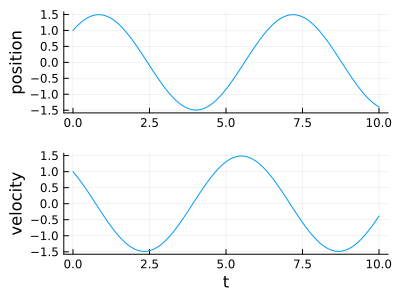
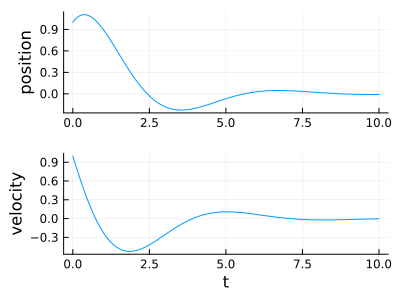
Correction in mass-spring-damper example

diff --git a/docs/Modelling/example_mass_spring_damper.md b/docs/Modelling/example_mass_spring_damper.md
@@ -83,9 +83,9 @@ From the first line, \(a=\frac{1}{2}\). Injecting it in the second line gives \(
 $$
 \begin{align}
 x(t)&=e^{-0.1t}\left((a+ib)(\cos(0.99t)+i\sin(0.99t))v_1 + (a-ib)(\cos(0.99t)-i\sin(0.99t))v_1\right)\\
-&= (v_1+v_2)\left( a\cos(0.99t)-b\sin(0.99t) \right) + i(v_1-v_2)\left(a\sin(0.99t)+b\cos(0.99t)\right)\\
-&= \begin{pmatrix}2\\-0.2\end{pmatrix}\left( a\cos(0.99t)-b\sin(0.99t) \right) + i\begin{pmatrix}0\\1.98i\end{pmatrix}\left(a\sin(0.99t)+b\cos(0.99t)\right)\\
-&= \begin{pmatrix}2\\-0.2\end{pmatrix}\left( 0.5\cos(0.99t)+0.555\sin(0.99t) \right) - \begin{pmatrix}0\\1.98\end{pmatrix}\left(0.5\sin(0.99t)-0.555\cos(0.99t)\right)
+&= e^{-0.1t}\left((v_1+v_2)\left( a\cos(0.99t)-b\sin(0.99t) \right) + i(v_1-v_2)\left(a\sin(0.99t)+b\cos(0.99t)\right)\right)\\
+&= e^{-0.1t}\left(\begin{pmatrix}2\\-0.2\end{pmatrix}\left( a\cos(0.99t)-b\sin(0.99t) \right) + i\begin{pmatrix}0\\1.98i\end{pmatrix}\left(a\sin(0.99t)+b\cos(0.99t)\right)\right)\\
+&= e^{-0.1t}\left(\begin{pmatrix}2\\-0.2\end{pmatrix}\left( 0.5\cos(0.99t)+0.555\sin(0.99t) \right) - \begin{pmatrix}0\\1.98\end{pmatrix}\left(0.5\sin(0.99t)-0.555\cos(0.99t)\right)\right)
 \end{align}
 $$
 
